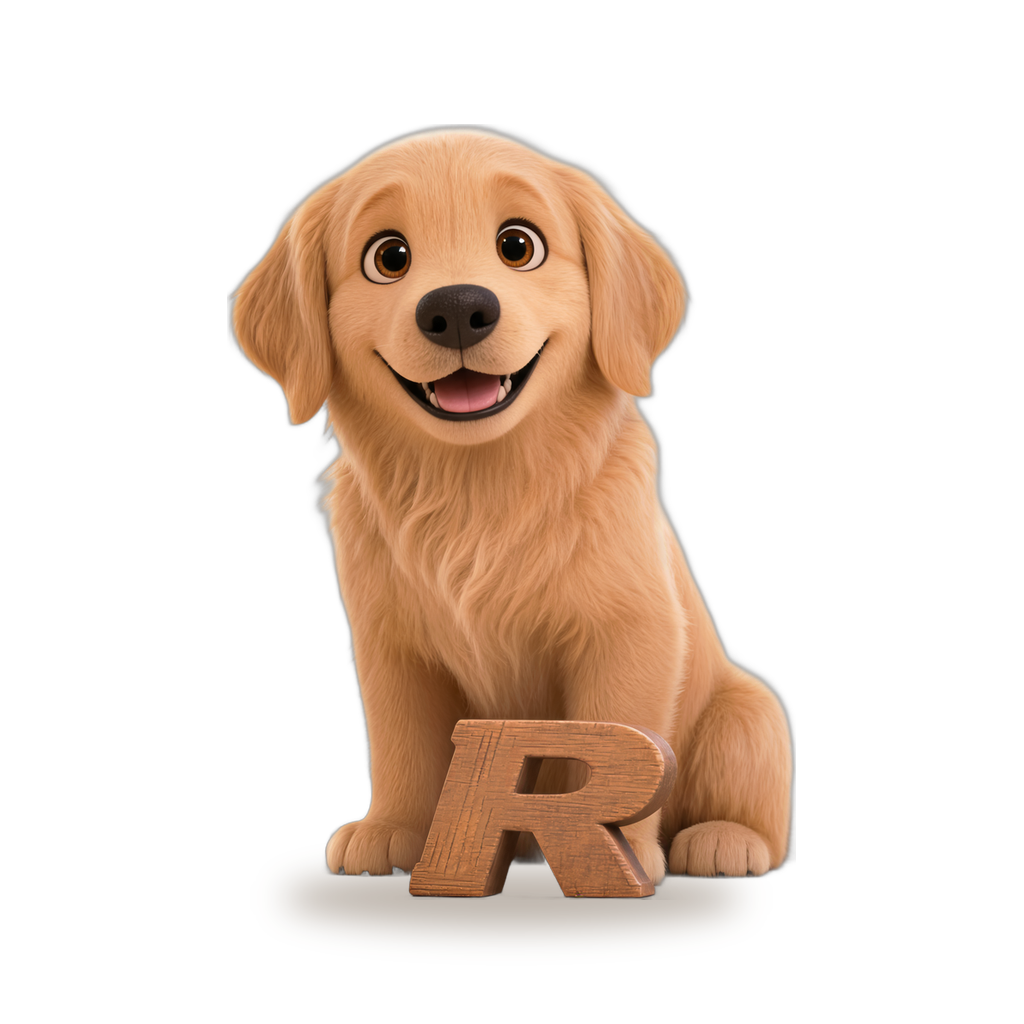
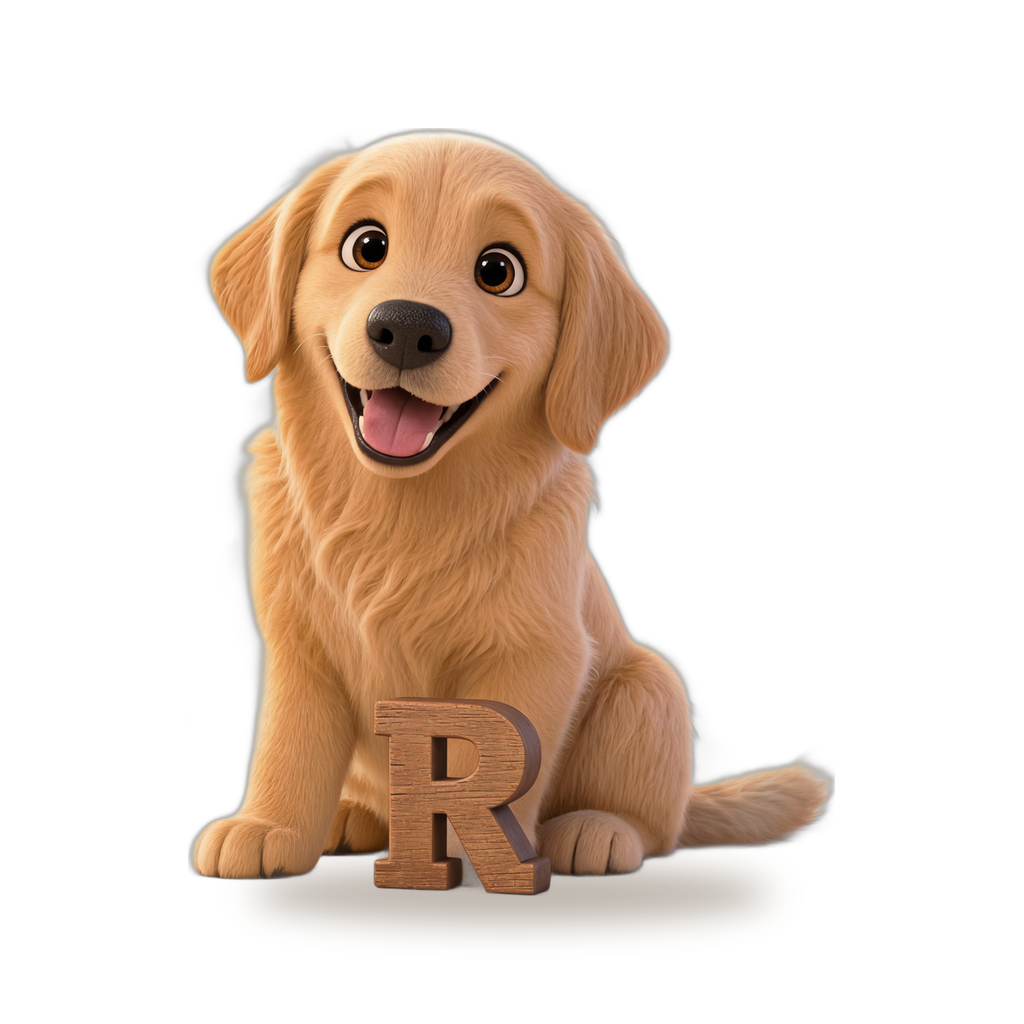
letter post: redo Lucy Y V T R N D E (old in cutout/old-v1), redo-sheet + preview

Changed region(s): [[0.1875, 0.0938, 0.8125, 0.9062]]

diff --git a/letter-post/MANIFEST.md b/letter-post/MANIFEST.md
@@ -9,8 +9,8 @@ Credits: 37 generations x 212.1 = 7,847.7.
 | A | cutout/lucy-letter-a.webp | raw/A-final.png | pass: A-try1 (gen 2eXQgPcb5B2laK6fs6Uv) - made with the OLD 'smaller/older' wording; QA'd vs test1: Lucy not smaller, likeness matches; kept |
 | B | cutout/lucy-letter-b.webp | raw/B-final.png | pass: test1 B-2 (reused) |
 | C | cutout/lucy-letter-c.webp | raw/C-final.png | pass: C-try1 |
-| D | cutout/lucy-letter-d.webp | raw/D-final.png | pass: D-try2 (try1 failed: room background, odd letter) |
-| E | cutout/lucy-letter-e.webp | raw/E-final.png | pass: E-try2 (try1 failed: malformed letter). Cutout needed manual mask help: wood keyed in, small stub under the E removed |
+| D | cutout/lucy-letter-d.webp | raw/D-final.png | pass: redo2-try1 (v1 D blocked her body). Letter keyed in cutout (v1 kept: raw/D-final-v1.png, cutout/old-v1/) |
+| E | cutout/lucy-letter-e.webp | raw/E-final.png | pass: redo2-try1 (v1 E had a stick/stub, hand-restored wood). Letter keyed in cutout (v1 kept: raw/E-final-v1.png, cutout/old-v1/) |
 | F | cutout/lucy-letter-f.webp | raw/F-final.png | pass: F-try3 (try1 E-like shape, try2 no letter). Stray fur at right edge painted out before cutout |
 | G | cutout/lucy-letter-g.webp | raw/G-final.png | pass: G-try1 |
 | H | cutout/lucy-letter-h.webp | raw/H-final.png | pass: H-try1 |
@@ -19,16 +19,19 @@ Credits: 37 generations x 212.1 = 7,847.7.
 | K | cutout/lucy-letter-k.webp | raw/K-final.png | pass: K-try3 (try1 hidden/mangled, try2 mangled) |
 | L | cutout/lucy-letter-l.webp | raw/L-final.png | pass: L-try1 |
 | M | cutout/lucy-letter-m.webp | raw/M-final.png | pass: test1 M-2 (reused) |
-| N | cutout/lucy-letter-n.webp | raw/N-final.png | pass: N-try1 |
+| N | cutout/lucy-letter-n.webp | raw/N-final.png | weak: redo2-try2, N in front but bottom edge touches frame (try1 drew an I, try3 boxed N) (v1 kept: raw/N-final-v1.png, cutout/old-v1/) |
 | O | cutout/lucy-letter-o.webp | raw/O-final.png | pass: O-try1; Lucy sits inside the O so she looks a bit smaller in the circle |
 | P | cutout/lucy-letter-p.webp | raw/P-final.png | pass: P-try1 |
 | Q | cutout/lucy-letter-q.webp | raw/Q-final.png | pass: Q-try2 (try1 tiny/garbled) |
-| R | cutout/lucy-letter-r.webp | raw/R-final.png | pass: R-try1; small R; stray blob at edge removed in cutout |
+| R | cutout/lucy-letter-r.webp | raw/R-final.png | pass: redo2-try3, clean R in front, medium size (try1 no letter, try2 R behind her) (v1 kept: raw/R-final-v1.png, cutout/old-v1/) |
 | S | cutout/lucy-letter-s.webp | raw/S-final.png | pass: S-try1 |
-| T | cutout/lucy-letter-t.webp | raw/T-final.png | pass: T-try1 |
+| T | cutout/lucy-letter-t.webp | raw/T-final.png | ok: redo2-try2, T low in front, top bar a bit off-center (try1 T behind her, try3 T like a hat) (v1 kept: raw/T-final-v1.png, cutout/old-v1/) |
 | U | cutout/lucy-letter-u.webp | raw/U-final.png | pass: U-try1; stray object at left edge removed in cutout |
-| V | cutout/lucy-letter-v.webp | raw/V-final.png | pass: V-try1 |
+| V | cutout/lucy-letter-v.webp | raw/V-final.png | weak: redo2-try1, V floats/tilts by her face (try2 no letter, try3 cropped) (v1 kept: raw/V-final-v1.png, cutout/old-v1/) |
 | W | cutout/lucy-letter-w.webp | raw/W-final.png | flag: W-try2 CROPPED: lower half only (the full image had a 2nd floating Lucy head; try1 had a room background and 3 Vs). Lucy is lying down here. FLAG: weakest; redo if Bradley wants |
 | X | cutout/lucy-letter-x.webp | raw/X-final.png | flag: X-try3 (try1 mangled, try2 two puppies). X is partly behind her paw but reads as X. FLAG: check |
-| Y | cutout/lucy-letter-y.webp | raw/Y-final.png | pass: Y-try1 |
+| Y | cutout/lucy-letter-y.webp | raw/Y-final.png | pass: redo2-try2 (v1 Y overlapped her; try1 letter behind her read as V) (v1 kept: raw/Y-final-v1.png, cutout/old-v1/) |
 | Z | cutout/lucy-letter-z.webp | raw/Z-final.png | pass: Z-try1 |
+
+## Redo 2 (2026-10-31, about 12:40 to 1:40 am CT): Y V T R N D E
+Bradley t770u: these were off. New raws raw/<X>-redo2-try1..3.png, prompts p4/, gens gens-redo3-try*.json. 16 generations x 212.1 = 3,393.6 credits. Old vs new: redo-sheet.jpg.
